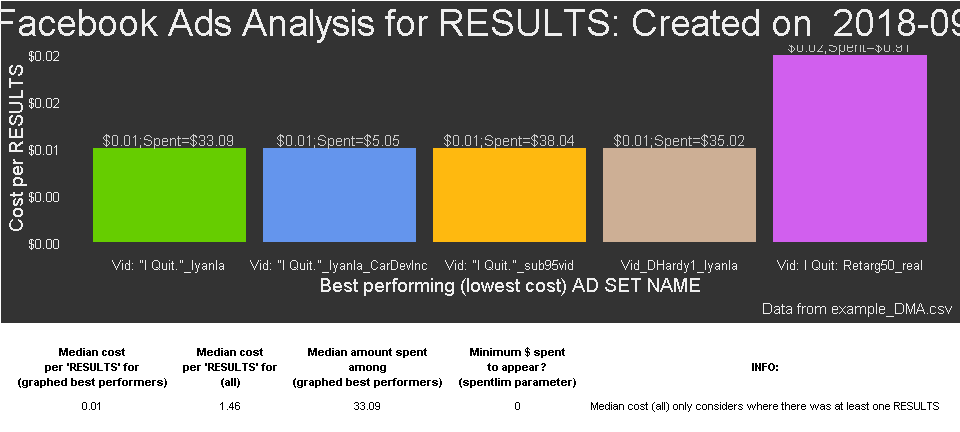
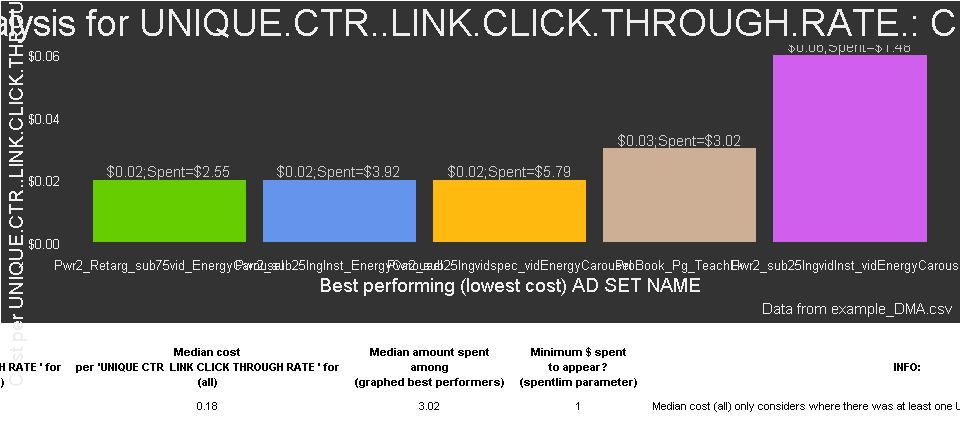
Fully repaired readme - using Unique CTR sumvar and minspent of 1 so bars visible is in bar chart

diff --git a/README.md b/README.md
@@ -56,38 +56,40 @@ Advanced usage - modifying parameters
 ``` r
 ## Load FBadstats
 library("FBadstats")
-# Show only the best performing groups and include the graphical output
-FBadGstats(filerd = "example_DMA.csv", grphout = TRUE, tblout = "BEST")
+# Show only the best performing groups and include the graphical output, 
+# minimum spend to appear is a dollar ($1), analyzed result is Unique CTR (Link Click-Through Rate)
+FBadGstats(filerd = "example_DMA.csv", grphout = TRUE, tblout = "BEST", 
+           spentlim = 1, sumvar = 'UNIQUE.CTR')
 #> early1_2
 #> early3
 #> Joining, by = "DMA.REGION"
 #> [1] "-------------------------------------------------------------"
-#> [1] "BEST: RESULTS in example_DMA.csv"
+#> [1] "BEST: UNIQUE CTR  LINK CLICK THROUGH RATE  in example_DMA.csv"
 #> # A tibble: 20 x 5
 #>    DMA.REGION                 rnkevent sumevent costevent sumspent
 #>    <chr>                         <int>    <dbl>     <dbl>    <dbl>
-#>  1 Casper-Riverton                   1        1      0        0   
-#>  2 Duluth-Superior                   1        1      0        0   
-#>  3 Ft. Smith-Fay-Sprngdl-Rgrs        1        5      0        0.02
-#>  4 Juneau                            1        1      0        0   
-#>  5 La Crosse-Eau Claire              1        2      0        0.01
-#>  6 Mankato                           1        2      0        0.01
-#>  7 Rochestr-Mason City-Austin        1        2      0        0   
-#>  8 Santabarbra-Sanmar-Sanluob        1        4      0        0.02
-#>  9 Billings                          9        2      0.01     0.02
-#> 10 Chico-Redding                     9        8      0.01     0.08
-#> 11 Evansville                        9        5      0.01     0.05
-#> 12 Fargo-Valley City                 9        3      0.01     0.04
-#> 13 Harrisonburg                      9        6      0.01     0.08
-#> 14 Hattiesburg-Laurel                9       11      0.01     0.13
-#> 15 Laredo                            9        1      0.01     0.01
-#> 16 Lima                              9        4      0.01     0.04
-#> 17 Omaha                             9       19      0.01     0.27
-#> 18 Portland-Auburn                   9        9      0.01     0.11
-#> 19 Providence-New Bedford            9       27      0.01     0.37
-#> 20 Quincy-Hannibal-Keokuk            9        3      0.01     0.02
+#>  1 Flint-Saginaw-Bay City            1   117.        0.01     1.42
+#>  2 Shreveport                        1   208.        0.01     1.62
+#>  3 Hartford & New Haven              3   108.        0.02     2.16
+#>  4 Rochester, NY                     3    59.1       0.02     1.4 
+#>  5 San Antonio                       5    32.1       0.03     1.12
+#>  6 Las Vegas                         6    56.7       0.04     2.24
+#>  7 Lafayette, LA                     7    25.3       0.05     1.19
+#>  8 Myrtle Beach-Florence             7    37.2       0.05     1.88
+#>  9 Sacramnto-Stkton-Modesto          7    92.3       0.05     4.21
+#> 10 Orlando-Daytona Bch-Melbrn       10    63.1       0.08     4.78
+#> 11 Tallahassee-Thomasville          11    19.0       0.09     1.67
+#> 12 Boston (Manchester)              12    32.3       0.1      3.1 
+#> 13 Columbus, GA (Opelika, Al)       12    14.7       0.1      1.42
+#> 14 Minneapolis-St. Paul             12    11.8       0.1      1.18
+#> 15 Savannah                         15    19.2       0.11     2.19
+#> 16 Seattle-Tacoma                   15    21.8       0.11     2.38
+#> 17 Nashville                        17    27.0       0.14     3.89
+#> 18 Portland, OR                     18     8.33      0.15     1.25
+#> 19 Miami-Ft. Lauderdale             19    43.5       0.16     7   
+#> 20 Greenville-N.Bern-Washngtn       20    10.2       0.17     1.73
 #> [1] "Number of groups in all of data: 197"
-#> [1] "Number of DMA REGION groups with at least one RESULTS and minimum spend of $0 = 184"
+#> [1] "Number of DMA REGION groups with at least one UNIQUE CTR  LINK CLICK THROUGH RATE  and minimum spend of $1 = 62"
 #> [1] "Total amount spent: $420.75"
 #> markerbottom_1
 #> Joining, by = "AD.SET.NAME"
@@ -96,32 +98,32 @@ FBadGstats(filerd = "example_DMA.csv", grphout = TRUE, tblout = "BEST")
 <img src="README-example1-1.png" style="display: block; margin: auto;" />
 
     #> [1] "-------------------------------------------------------------"
-    #> [1] "BEST: RESULTS in example_DMA.csv"
+    #> [1] "BEST: UNIQUE CTR  LINK CLICK THROUGH RATE  in example_DMA.csv"
     #> # A tibble: 20 x 5
     #>    AD.SET.NAME                        rnkevent sumevent costevent sumspent
     #>    <chr>                                 <int>    <dbl>     <dbl>    <dbl>
-    #>  1 "Vid: \"I Quit.\"_Iyanla"                 1     3951      0.01    33.1 
-    #>  2 "Vid: \"I Quit.\"_Iyanla_CarDevIn~        1      528      0.01     5.05
-    #>  3 "Vid: \"I Quit.\"_sub95vid"               1     2906      0.01    38.0 
-    #>  4 Vid_DHardy1_Iyanla                        1     2505      0.01    35.0 
-    #>  5 Vid: I Quit: Retarg50_real                5       45      0.02     0.91
-    #>  6 Pwr2_Retarg_sub75vid_EnergyCarous~        6        7      0.36     2.55
-    #>  7 Pwr2_TeachspecInst_EnergyCarousel         7      124      0.44    54.4 
-    #>  8 Pwr2_Teachspec_EnergyCarousel             8        1      0.6      0.6 
-    #>  9 Pwr2_sub25lngvid40+_vidEnergyCaro~        9       21      0.71    15.0 
-    #> 10 ProBook_Pg_95vidlk                       10       58      1.13    65.3 
-    #> 11 Pwr2_MercerInst_EnergyCarousel           11       10      1.22    12.2 
-    #> 12 Pwr2_sub25lngInst_EnergyCarousel         12        3      1.31     3.92
-    #> 13 Pwr2_RTP4562_vidEnergyCarousel           13        9      1.43    12.9 
-    #> 14 Pwr2_sub25lngvidspec_vidEnergyCar~       14        4      1.45     5.79
-    #> 15 Pwr2_Teach95vidRTP_vidEnergyCarou~       15        2      1.46     2.92
-    #> 16 Pwr2_sub25lngvidInst_vidEnergyCar~       16        1      1.48     1.48
-    #> 17 Pwr2_TeachSpecRTP_vidEnergyCarous~       17        4      2.06     8.25
-    #> 18 Event: Ryan's Race for 1st Place_~       18        1      2.19     2.19
-    #> 19 Pwr2_Teachspec_vidEnergyCarousel         19        2      2.29     4.57
-    #> 20 ProBook_Pg_TeachLk                       20        1      3.02     3.02
+    #>  1 Pwr2_Retarg_sub75vid_EnergyCarous~        1   115.       0.02      2.55
+    #>  2 Pwr2_sub25lngInst_EnergyCarousel          1   180.       0.02      3.92
+    #>  3 Pwr2_sub25lngvidspec_vidEnergyCar~        1   295        0.02      5.79
+    #>  4 ProBook_Pg_TeachLk                        4   100        0.03      3.02
+    #>  5 Pwr2_sub25lngvidInst_vidEnergyCar~        5    25        0.06      1.48
+    #>  6 Pwr2_TeachspecInst_DarrenDaily            6   588.       0.08     49.1 
+    #>  7 Pwr2_sub95vidInst_EnergyCarousel          7    36.7      0.09      3.42
+    #>  8 Pwr2_Teachspec_vidEnergyCarousel          7    50        0.09      4.57
+    #>  9 Pwr2_TeachspecInst_EnergyCarousel         9   439.       0.12     54.4 
+    #> 10 Event: Ryan's Race for 1st Place_~       10    16.7      0.13      2.19
+    #> 11 ProBook_Pg_TeachSpec                     11    23.1      0.14      3.32
+    #> 12 Pwr2_TeachSpecDT_vidEnergyCarousel       12    44.2      0.18      7.81
+    #> 13 ProBook_Pg_95vidlk                       13   274.       0.24     65.3 
+    #> 14 Event: Ryan's Race for 1st Place_~       14    14.3      0.25      3.57
+    #> 15 Pwr2_sub75vid_DarrenDaily                15    18.5      0.26      4.84
+    #> 16 Pwr2_sub75vid_vidEnergyCarousel          16    33.1      0.290     9.53
+    #> 17 Pwr2_sub25lngvid40+_vidEnergyCaro~       17    39.5      0.38     15.0 
+    #> 18 Vid_DHardy1_Iyanla                       18    89.1      0.39     35.0 
+    #> 19 Pwr2_TeachspecInstO_DarrenDaily          19     3.03     1.58      4.78
+    #> 20 Pwr2_MercerInst_EnergyCarousel           20     1.98     6.12     12.2 
     #> [1] "Number of groups in all of data: 36"
-    #> [1] "Number of AD SET NAME groups with at least one RESULTS and minimum spend of $0 = 28"
+    #> [1] "Number of AD SET NAME groups with at least one UNIQUE CTR  LINK CLICK THROUGH RATE  and minimum spend of $1 = 23"
     #> [1] "Total amount spent: $420.75"
     #> markerbottom_1
 
